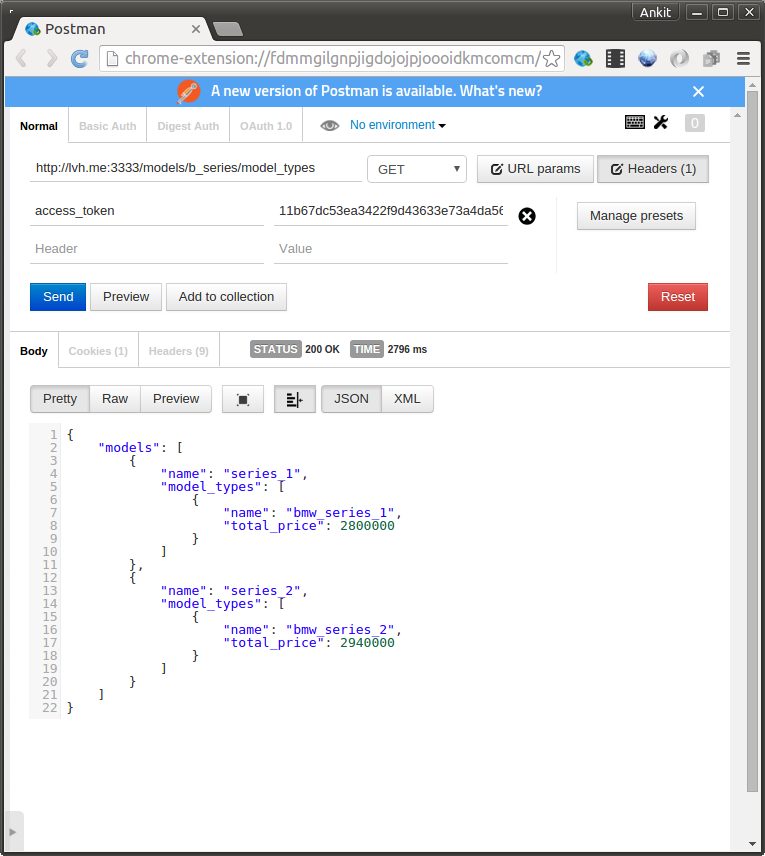
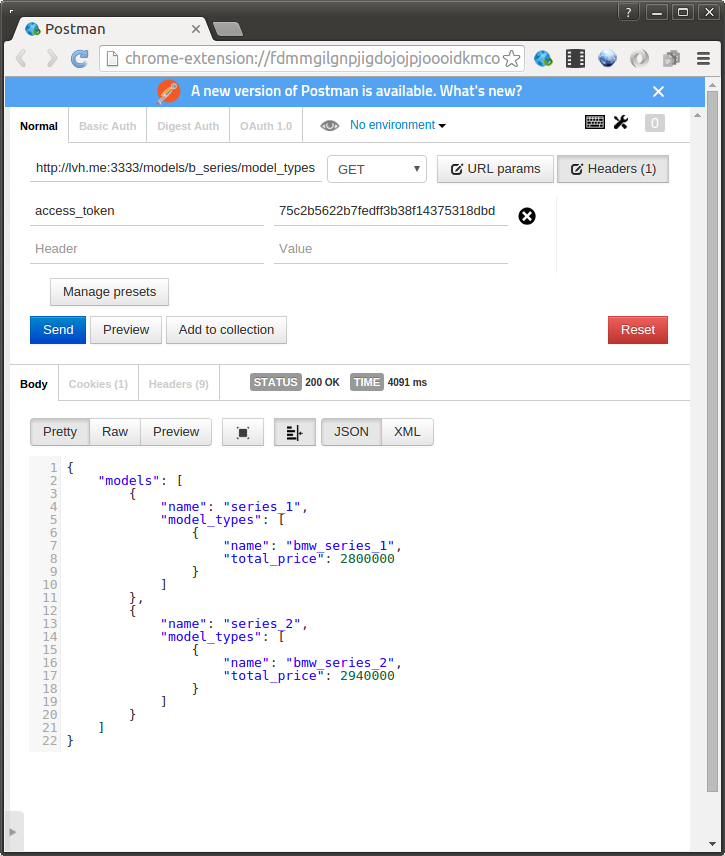
API for get_token with spec

diff --git a/app/controllers/api/v1/organizations.rb b/app/controllers/api/v1/organizations.rb
@@ -1,0 +1,24 @@
+module API
+  module V1
+    class Organizations < Grape::API
+
+      resource :organizations do
+        # Get a access-token
+        #
+        # Parameters:
+        #   organization_id (required) - id of an organization
+        # Example Request:
+        #   POST /organizations/:organization_id/get_token
+        params do
+          requires :organization_id
+        end
+        post '/:organization_id/get_token' do
+          organization = Organization.where(id: params[:organization_id]).first
+          error!('Invalid Organization ID.', 401) if organization.nil?
+          organization.refresh_access_token
+          {success: true}.merge(organization.attributes.slice('access_token'))
+        end
+      end
+    end
+  end
+end

diff --git a/spec/requests/organization_spec.rb b/spec/requests/organization_spec.rb
@@ -1,0 +1,19 @@
+require 'rails_helper'
+
+describe 'Organizations, type: :request' do
+  before do
+    @organization = FactoryGirl.create(:organization)
+  end
+
+  # URL: http://lvh.me:3333/organizations/1/get_token
+  describe 'POST /organizations/:organization_id/get_token' do
+    it 'returns 401 unauthorised status' do
+      post "/organizations/#{@organization.id + 1}/get_token"
+      expect(response.response_code).to eq 401
+    end
+    it 'returns 201 success status' do
+      post "/organizations/#{@organization.id}/get_token"
+      expect(response.response_code).to eq 201
+    end
+  end
+end

diff --git a/app/models/organization.rb b/app/models/organization.rb
@@ -11,6 +11,13 @@ class Organization < ActiveRecord::Base
 
   before_create :create_access_token
 
+  def refresh_access_token
+    create_access_token
+    save!
+  end
+
+  private
+
   def create_access_token
     self.access_token = SecureRandom.hex.to_s
   end

diff --git a/spec/requests/model_spec.rb b/spec/requests/model_spec.rb
@@ -2,7 +2,7 @@ require 'rails_helper'
 
 describe 'Models, type: :request' do
   def headers
-    {'HTTP_ACCESS_TOKEN'  => @organization.access_token}
+    {'HTTP_ACCESS_TOKEN' => @organization.access_token}
   end
 
   before do

diff --git a/app/controllers/api/base.rb b/app/controllers/api/base.rb
@@ -16,5 +16,6 @@ class API::Base < Grape::API
       Organization.find_by_access_token(access_token)
     end
   end
+  mount API::V1::Organizations
   mount API::V1::Models
 end

diff --git a/spec/factories/organizations.rb b/spec/factories/organizations.rb
@@ -4,6 +4,5 @@ FactoryGirl.define do
     public_name "MyString"
     type "ShowRoom"
     pricing_policy 1
-    access_token SecureRandom.hex.to_s
   end
 end
